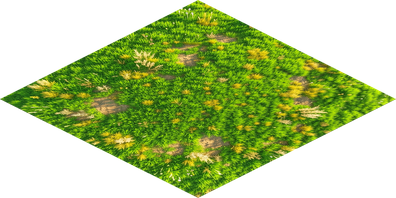
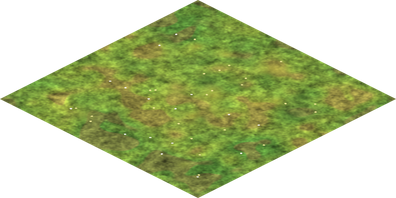
Sol : herbe a/b/c/d sans couture, terre a/b/c/d ; outil sol.py
Claude-Session: https://claude.ai/code/session_01GArnKYW6kkDaRqVDc5pfp5

diff --git a/tools/factory_ai/sol.py b/tools/factory_ai/sol.py
@@ -1,0 +1,75 @@
+#!/usr/bin/env python3
+"""Tuiles de sol sans couture (losange 396x198) : bruit périodique dans l'espace monde (u,v), période 1 par case.
+Toutes les variantes partagent la même base périodique ; seules des touches intérieures (fondues vers 0 aux bords) les distinguent,
+donc n'importe quelle variante se raccorde à n'importe quelle autre. Usage : python3 sol.py [dossier_sortie]"""
+import sys, os
+import numpy as np
+from PIL import Image
+W, H, SS = 396, 198, 3
+N = 512
+out = sys.argv[1] if len(sys.argv) > 1 else '../../assets/phase2_hd'
+
+def pnoise(seed, sigma):
+    r = np.random.RandomState(seed).randn(N, N)
+    fx = np.fft.fftfreq(N)[:, None]; fy = np.fft.fftfreq(N)[None, :]
+    g = np.exp(-(fx ** 2 + fy ** 2) * (2 * np.pi * sigma) ** 2 / 2)
+    a = np.real(np.fft.ifft2(np.fft.fft2(r) * g)); a -= a.mean(); return a / (a.std() + 1e-9)
+
+def world(ss=SS):
+    w, h = W * ss, H * ss
+    x = (np.arange(w)[None, :] + 0.5) / ss; y = (np.arange(h)[:, None] + 0.5) / ss
+    s = (y / (H / 2)) ; d = (x - W / 2) / (W / 2)
+    u = (s + d) / 2; v = (s - d) / 2
+    return u, v
+
+def samp(a, u, v):
+    return a[(np.floor(v * N).astype(int)) % N, (np.floor(u * N).astype(int)) % N]
+
+def lerp(c1, c2, t):
+    return np.array(c1)[None, None, :] * (1 - t[..., None]) + np.array(c2)[None, None, :] * t[..., None]
+
+def bump(u, v, m=0.12):
+    f = lambda t: np.clip(np.minimum(t, 1 - t) / m, 0, 1)
+    b = f(u) * f(v); return b * b * (3 - 2 * b)
+
+def herbe(variante):
+    u, v = world(); sh = u.shape
+    big, mid, fin, blad = pnoise(1, 38), pnoise(2, 14), pnoise(3, 4.5), pnoise(4, 1.6)
+    t1 = np.clip(0.5 + 0.30 * samp(big, u, v) + 0.18 * samp(mid, u, v), 0, 1)
+    col = lerp((88, 140, 56), (150, 168, 62), t1)                     # vert franc -> vert jaune
+    tt = np.clip(0.5 + 0.8 * samp(mid, u, v) * samp(big, u, v), 0, 1) ** 3
+    col = col * (1 - 0.55 * tt[..., None]) + np.array((140, 112, 66))[None, None, :] * 0.55 * tt[..., None]   # plaques de terre claire
+    col *= (1 + 0.10 * samp(fin, u, v) + 0.07 * samp(blad, u, v))[..., None]
+    rs = np.random.RandomState(100 + variante); b = bump(u, v)
+    for _ in range(26):                                                # touches propres à la variante (intérieur seulement)
+        cu, cv = rs.uniform(0.12, 0.88, 2); r = rs.uniform(0.04, 0.09); c = rs.choice(3)
+        d = np.sqrt((u - cu) ** 2 + (v - cv) ** 2) / r
+        k = np.clip(1 - d, 0, 1) ** 1.5 * b
+        tone = [(52, 100, 40), (176, 190, 76), (206, 190, 70)][c]
+        col = col * (1 - 0.5 * k[..., None]) + np.array(tone)[None, None, :] * 0.5 * k[..., None]
+    for _ in range(40):                                                # fleurs / brins clairs
+        cu, cv = rs.uniform(0.1, 0.9, 2); d = np.sqrt((u - cu) ** 2 + (v - cv) ** 2)
+        k = (d < 0.0045) * b; col = col * (1 - k[..., None]) + np.array((236, 230, 150) if rs.rand() < 0.5 else (240, 240, 236))[None, None, :] * k[..., None]
+    return col
+
+def terre(variante):
+    u, v = world()
+    big, mid, fin = pnoise(11, 30), pnoise(12, 9), pnoise(13, 2.5)
+    pal = [((120, 88, 58), (160, 124, 86)), ((136, 104, 70), (178, 146, 104)), ((150, 118, 80), (196, 168, 122)), ((104, 76, 50), (140, 104, 72))][0]
+    t = np.clip(0.5 + 0.30 * samp(big, u, v) + 0.25 * samp(mid, u, v), 0, 1)
+    col = lerp(pal[0], pal[1], t) * (1 + 0.09 * samp(fin, u, v))[..., None]
+    rs = np.random.RandomState(200 + variante); b = bump(u, v)
+    for _ in range(70):                                                # cailloux et ornières
+        cu, cv = rs.uniform(0.08, 0.92, 2); r = rs.uniform(0.005, 0.014)
+        d = np.sqrt((u - cu) ** 2 + (v - cv) ** 2) / r; k = np.clip(1 - d, 0, 1) * b
+        col = col * (1 - 0.6 * k[..., None]) + np.array((92, 72, 56) if rs.rand() < 0.5 else (196, 184, 160))[None, None, :] * 0.6 * k[..., None]
+    return col
+
+def save(col, name):
+    u, v = world(); m = ((u >= 0) & (u <= 1) & (v >= 0) & (v <= 1)).astype(float)
+    img = np.dstack([np.clip(col, 0, 255), m * 255]).astype(np.uint8)
+    Image.fromarray(img, 'RGBA').resize((W, H), Image.LANCZOS).save(os.path.join(out, name + '.png'))
+    print('ok', name)
+
+for i, n in enumerate(['herbe_a', 'herbe_b', 'herbe_c', 'herbe_d']): save(herbe(i), n)
+for i, n in enumerate(['terre_a', 'terre_b', 'terre_c', 'terre_d']): save(terre(i), n)

diff --git a/tools/factory_ai/parcelle.py b/tools/factory_ai/parcelle.py
@@ -105,7 +105,7 @@ def main():
     # trottoir (bordure) puis chaussée
     poly(d, [P(0, 0), P(1, 0), P(1, 1), P(0, 1)], (206, 206, 200, 255))
     m = 0.035
-    poly(d, [P(m, m), P(1 - m, m), P(1 - m, 1 - m), P(m, 1 - m)], (74, 78, 86, 255) if mode == 'parking' else (128, 124, 116, 255))
+    poly(d, [P(m, m), P(1 - m, m), P(1 - m, 1 - m), P(m, 1 - m)], (74, 78, 86, 255) if mode == 'parking' else ((108, 160, 80, 255) if mode == 'jardin' else (128, 124, 116, 255)))
     # liseré de bordure
     for (a, b) in [((0, 0), (1, 0)), ((1, 0), (1, 1)), ((1, 1), (0, 1)), ((0, 1), (0, 0))]:
         d.line([P(*a), P(*b)], fill=(236, 236, 230, 255), width=3 * SS)
@@ -366,11 +366,12 @@ def main():
         pts.append((0.985, t))      # bord bas-droit   (u ~ 1)
     pts += [(0.985, 0.02), (0.02, 0.985)]
     if ferme: pts = []
+    if mode == 'jardin': pts = [(0.93, 0.35), (0.35, 0.93), (0.93, 0.7), (0.7, 0.93)]
     pts.sort(key=lambda p: p[0] + p[1])
     for (u, v) in pts:
         arbre(u, v)
     # lampadaires
-    for (u, v) in ([] if ferme else [(0.5, 0.985), (0.985, 0.5)]):
+    for (u, v) in ([] if (ferme or mode == 'jardin') else [(0.5, 0.985), (0.985, 0.5)]):
         x, y = P(u, v, 0)
         dc.line([(x, y), (x, y - 50 * SS)], fill=(70, 74, 82, 255), width=3 * SS)
         dc.ellipse([x - 5 * SS, y - 56 * SS, x + 5 * SS, y - 46 * SS], fill=(250, 240, 190, 255))

diff --git a/tools/factory_ai/RETOURS.md b/tools/factory_ai/RETOURS.md
@@ -136,3 +136,9 @@ Tout est poussé sur `assets/factory-sprites`.
 - **4. Versions finales (à brancher)** : fermes = `fwheat fsugar fcotton fvine fcorn frapeseed fcattle fchicken fpig fsheep`. Sources `bat_` utilisées : `bat_ferme_hangar` (cultures), `bat_chai_vigneron` (vigne), `bat_ferme_stabulation_ronde` (bovins), `bat_ferme_poulailler_long` (poules), `bat_ferme_porcherie_longue` (porcs), `bat_ferme_bergerie` (moutons). **Obsolètes (ne pas brancher)** : `bat_chai_vigne`, `bat_ferme_porcherie`, `bat_ferme_porcherie_long`, `bat_ferme_poulailler`, `bat_ferme_porcs`, `bat_ferme_poulets`, `bat_ferme_moutons`, `bat_ferme_bovins`, `bat_ferme_traite` ; `bat_ferme_etable_traversante` et `bat_ferme_carrousel` sont des variantes non utilisées. `bat_drugstore`, `bat_supermarche*`, `bat_hypermarche*` sont des sources : les finals sont les noms sans préfixe.
 - **5. Personnages** : `ancres.json` contient déjà `ancre_x/ancre_y` (pieds) pour `ouvrier_*`, `poses/ouvrier_*` et `chariot_elevateur*`.
 - **1. Angle de caméra (le gros chantier)** : non traité en lot. Ce n'est pas corrigeable par un simple redimensionnement (c'est ton écrasement vertical actuel) : je recompose les bâtiments à partir de leur source `bat_*` sur une parcelle dessinée en 2:1 exact avec un redressement affine qui garde les verticales (méthode des fermes et des commerces). Ordre prévu : (a) familles qui ont déjà une source `bat_` (scierie, mega_centre_commercial) ; (b) bâtiments de ville les plus relevés (mairie 0,76, gratte-ciel, école, hôpital, gare, hôtel, banque) ; (c) mines et gisements (0,43 à 0,71) ; (d) maisons et immeubles. Chaque lot repasse par `asset_qa.py` avant push.
+
+## Sol : herbe sans couture et terre (18 nov., soir)
+- `herbe_a/b/c` remplacées et `herbe_d` ajoutée ; `terre_a/b/c/d` (chemins, terre battue) nouvelles. Losange 396×198, ancre (198,99), emprise 396.
+- Raccord sans couture garanti par construction (`tools/factory_ai/sol.py`) : bruit périodique dans l'espace monde, période 1 par case, **même base pour toutes les variantes** ; seules des touches intérieures (fondues vers 0 aux bords) les distinguent. N'importe quelle herbe se raccorde à n'importe quelle autre, idem pour la terre. Herbe/terre côte à côte : bord net, pas de transition (`herbe_bord_*` pas faits).
+- Rendu : herbe mouchetée jaune-vert avec plaques de terre claire (référence Age of Empires de Rémy).
+- Lot maisons/immeubles : sources `bat_maison_*`, `bat_immeuble_*`, `bat_tour_logements` générées côté producteur mais **non poussées** : la recomposition sur sol 2:1 donne la bonne pente mais des maisons moins soignées que les originaux. Décision de Rémy en attente.
